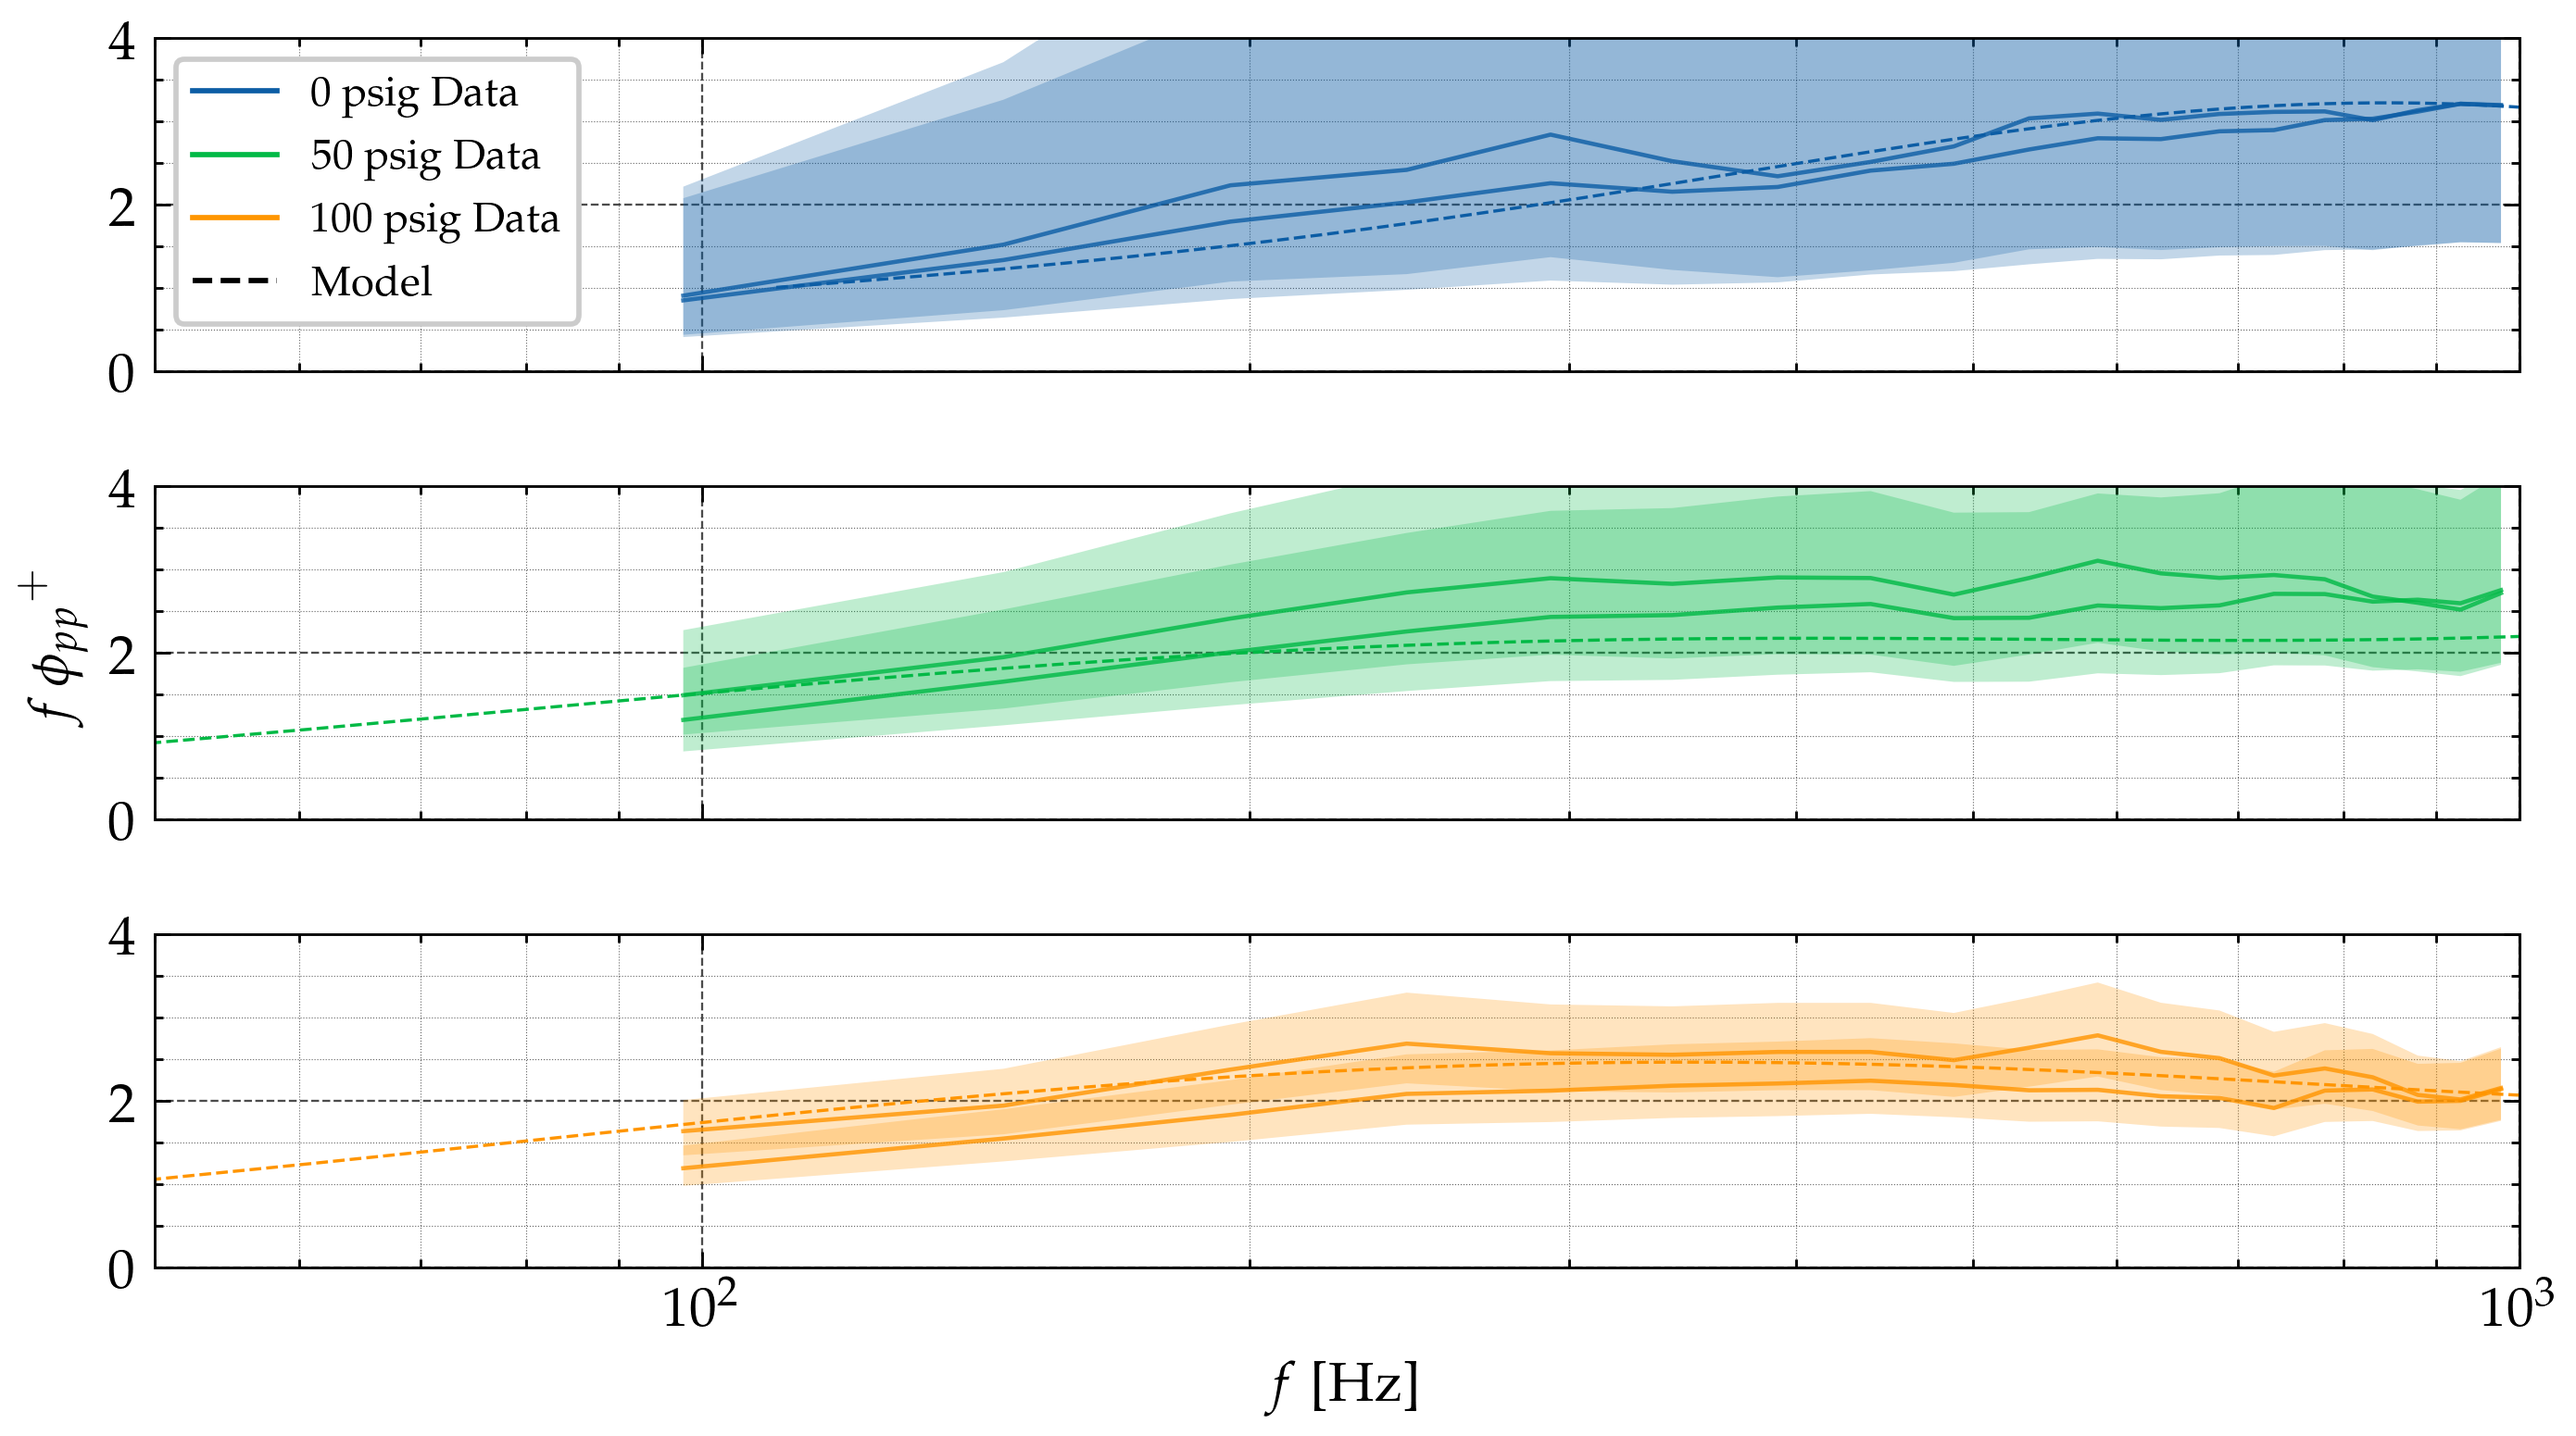
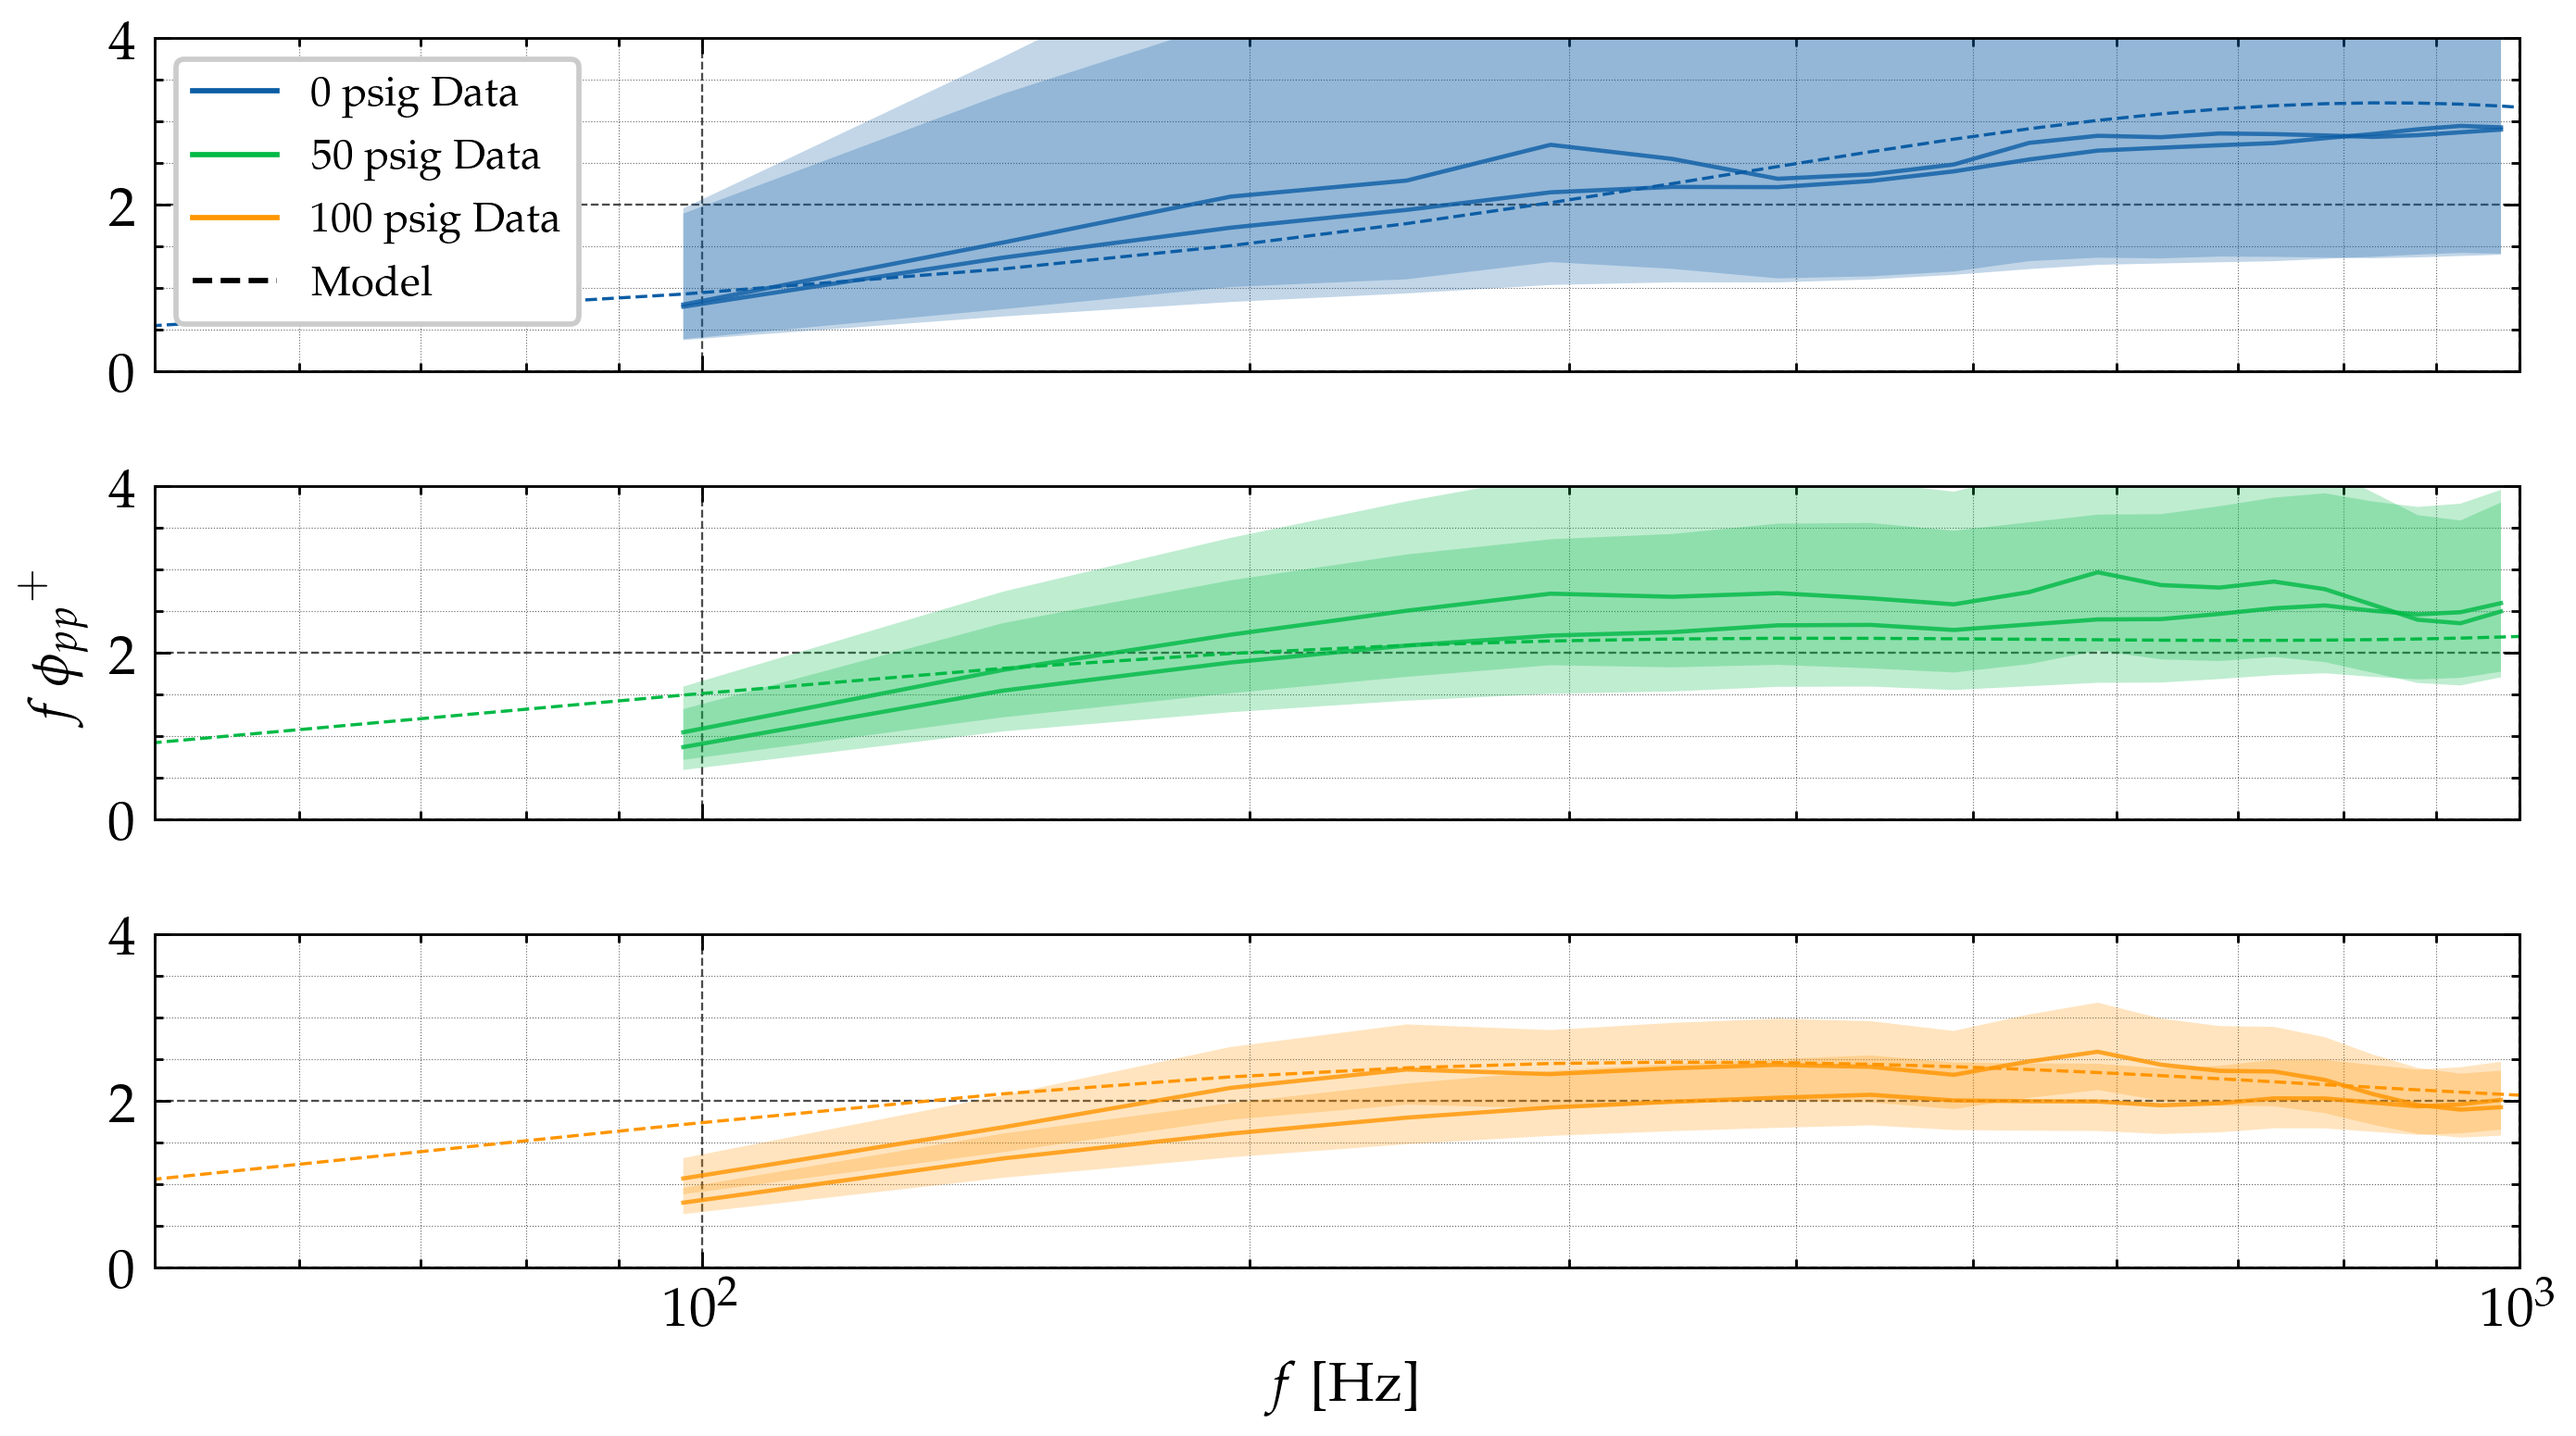
Okay, running and have near and far spacing

diff --git a/src/25-10-30__creative_lumped_element.py b/src/25-10-30__creative_lumped_element.py
@@ -61,6 +61,9 @@ SENSITIVITIES_V_PER_PA: dict[str, float] = {
 }
 PREAMP_GAIN: dict[str, float] = {"nc": 1.0, "PH1": 1.0, "PH2": 1.0, "NC": 1.0}
 TONAL_BASE = "data/2025-10-28/tonal/"
+CALIB_BASE = "data/final_calibration/"
+TARGET_BASE = "data/final_target/"
+CLEANED_BASE = "data/final_cleaned/"
 
 
 def estimate_frf(
@@ -102,13 +105,13 @@ def save_calibs(pressures):
     f_cut = [2_100, 4_700, 14_100]
     for i, pressure in enumerate(pressures):
         frequencies = np.arange(100, 3100, 100)
-        dat = loadmat(TONAL_BASE + f"calib_{pressure}.mat")
+        dat = loadmat(CALIB_BASE + f"calib_{pressure}_1.mat")
         ph1, ph2, nc, _ = dat["channelData_WN"].T
         nc_pa = volts_to_pa(nc, "NC", f_cut[i])
         ph1_pa = volts_to_pa(ph1, "PH1", f_cut[i])
         f1, H1, g2_1 = estimate_frf(ph1_pa, nc_pa, fs=FS)
         # add calibration for ph2
-        dat = loadmat(TONAL_BASE + f"calib_{pressure}.mat")
+        dat = loadmat(CALIB_BASE + f"calib_{pressure}_2.mat")
         ph1, ph2, nc, _ = dat["channelData_WN"].T
         nc_pa = volts_to_pa(nc, "NC", f_cut[i])
         ph2_pa = volts_to_pa(ph2, "PH2", f_cut[i])
@@ -123,7 +126,7 @@ def save_calibs(pressures):
             eps=1e-12
         )
         # save frf
-        with h5py.File(TONAL_BASE + f"calibs_{pressure}.h5", 'w') as hf:
+        with h5py.File(CALIB_BASE + f"calibs_{pressure}.h5", 'w') as hf:
             hf.create_dataset('frequencies', data=f1)
             hf.create_dataset('H1', data=H1)
             hf.create_dataset('H2', data=H2)
@@ -149,10 +152,11 @@ def compute_spec(fs: float, x: np.ndarray, npsg : int = NPERSEG):
     )
     return f, Pxx
 
+
 def save_scaling_target():
-    fn_atm = '0psig_cleaned.h5'
-    fn_50psig = '50psig_cleaned.h5'
-    fn_100psig = '100psig_cleaned.h5'
+    fn_atm = '0psig_close_cleaned.h5'
+    fn_50psig = '50psig_close_cleaned.h5'
+    fn_100psig = '100psig_close_cleaned.h5'
     labels = ['0psig', '50psig', '100psig']
     colours = ['C0', 'C1', 'C2']
 
@@ -162,7 +166,7 @@ def save_scaling_target():
 
     fig, ax = plt.subplots(1, 1, figsize=(7, 3), tight_layout=True)
     for idxfn, fn in enumerate([fn_atm, fn_50psig, fn_100psig]):
-        with h5py.File(f'data/{fn}', 'r') as hf:
+        with h5py.File(CLEANED_BASE+f'{fn}', 'r') as hf:
             ph1_clean = hf['ph1_clean'][:]
             ph2_clean = hf['ph2_clean'][:]
             u_tau = hf.attrs['u_tau']
@@ -201,7 +205,7 @@ def save_scaling_target():
         model_data_ratio2 = np.sqrt(data_fphipp_plus2_tf_m / bl_fphipp_plus)
 
         model_ratio_avg = (model_data_ratio1 + model_data_ratio2) / 2
-        with h5py.File(TONAL_BASE + f"lumped_scaling_{labels[idxfn]}.h5", 'w') as hf:
+        with h5py.File(TARGET_BASE + f"lumped_scaling_{labels[idxfn]}.h5", 'w') as hf:
             hf.create_dataset('frequencies', data=f_clean)
             hf.create_dataset('scaling_ratio', data=model_ratio_avg)
             hf.attrs['rho'] = rho
@@ -215,7 +219,7 @@ def plot_target_calib_modeled(
     *,
     fmin: float = 100.0,
     fmax: float = 1000.0,
-    f_ref: float = 1000.0,
+    f_ref: float = 700.0,
     rho_ref: float | None = None,
     invert_target: bool = True,   # saved "scaling_ratio" is model/data → required |H| = 1/scaling_ratio
     to_db: bool = False,          # set True to plot in dB
@@ -227,9 +231,8 @@ def plot_target_calib_modeled(
     # ----------------------------
     # (a) your baseline power-law (ρ, f) model
     (c0_db, a_rho, b_f), scale_powerlaw, diag_pw = fit_speaker_scaling_from_files(
-        labels=labels, fmin=fmin, fmax=fmax, f_ref=f_ref, rho_ref=rho_ref, invert_target=invert_target
+        # labels=labels, fmin=fmin, fmax=fmax, f_ref=f_ref, rho_ref=rho_ref, invert_target=invert_target
     )
-    ic(c0_db, a_rho, b_f)
     # ----------------------------
     # 2) helpers & styling
     # ----------------------------
@@ -252,17 +255,16 @@ def plot_target_calib_modeled(
         color = colours[i % len(colours)]
 
         # --- load target (required |H|)
-        with h5py.File(TONAL_BASE + f"lumped_scaling_{L}.h5", "r") as hf:
+        with h5py.File(TARGET_BASE + f"target_{L}_close.h5", "r") as hf:
             f_tgt = np.asarray(hf["frequencies"][:], float)
             s_ratio = np.asarray(hf["scaling_ratio"][:], float)  # (model/data) in POWER
             rho = float(hf.attrs["rho"]) if "rho" in hf.attrs else np.nan
-            nu = float(hf.attrs["nu"]) if "nu" in hf.attrs else np.nan  # preferred for Stokes
         tgt_mag = 1.0 / np.maximum(s_ratio, 1e-16) if invert_target else s_ratio  # required |H| (AMPLITUDE)
         mt = (f_tgt >= fmin) & (f_tgt <= fmax)
         f_tgt, tgt_mag = f_tgt[mt], tgt_mag[mt]
 
         # --- load measured calibration |H_cal|
-        with h5py.File(TONAL_BASE + f"calibs_{L}.h5", "r") as hf:
+        with h5py.File(CALIB_BASE + f"calibs_{L}.h5", "r") as hf:
             f_cal = np.asarray(hf["frequencies"][:], float)
             H_cal = np.asarray(hf["H_fused"][:], complex)
         cal_mag = np.abs(H_cal)
@@ -325,24 +327,19 @@ def plot_tf_model_comparison():
     (c0_db, a, b), scale, diag = fit_speaker_scaling_from_files(
         labels=tuple(labels),
         fmin=100.0, fmax=1000.0,   # fitting band
-        f_ref=1000.0,
+        f_ref=700.0,
         invert_target=True         # your "scaling_ratio" -> required |H| = 1/scaling_ratio
     )
 
-
     # files per label
     fn_map = {
-        '0psig': '0psig_cleaned.h5',
-        '50psig': '50psig_cleaned.h5',
-        '100psig': '100psig_cleaned.h5',
+        '0psig': '0psig_far_cleaned.h5',
+        '50psig': '50psig_far_cleaned.h5',
+        '100psig': '100psig_far_cleaned.h5',
     }
     colours = ['C0', 'C1', 'C2']
-
-    # (rho0 only used if you want to compare densities directly elsewhere)
-    pgs = [0, 50, 100]
     
     u_tau_uncertainty = [0.2, 0.1, 0.05]
-
     fig, ax = plt.subplots(3, 1, figsize=(7, 4), tight_layout=True, sharex=True, sharey=True)
 
     # --- main loop over datasets ---
@@ -351,17 +348,17 @@ def plot_tf_model_comparison():
         color = colours[i]
 
         # Load cleaned signals and attributes
-        with h5py.File(f'data/{fn}', 'r') as hf:
+        with h5py.File(CLEANED_BASE +f'{fn}', 'r') as hf:
             ph1_clean = hf['ph1_clean'][:]
             ph2_clean = hf['ph2_clean'][:]
             u_tau = float(hf.attrs['u_tau'])
             nu = float(hf.attrs['nu'])
             rho = float(hf.attrs['rho'])
-            # f_cut = hf.attrs.get('f_cut', np.nan)  # unused here
             Re_tau = hf.attrs.get('Re_tau', np.nan)
-            # cf_2   = hf.attrs.get('cf_2',   np.nan)
-        f_cal = np.load(TONAL_BASE + f"wn_frequencies_{L}.npy").astype(float)
-        H_cal = np.load(TONAL_BASE + f"wn_H1_{L}.npy")
+        
+        with h5py.File(CALIB_BASE + f"calibs_{L}.h5", "r") as hf:
+            f_cal = np.asarray(hf["frequencies"][:], float)
+            H_cal = np.asarray(hf["H_fused"][:], complex)
 
         # Plot bl model
         T_plus = (u_tau**2 / nu) / f_cal
@@ -379,10 +376,6 @@ def plot_tf_model_comparison():
         # --- PSDs ---
         f1, Pyy1 = compute_spec(FS, ph1_filt)
         f2, Pyy2 = compute_spec(FS, ph2_filt)
-        # unify grids (Welch outputs match with identical settings)
-        if not np.allclose(f1, f2):
-            # If extremely picky, interpolate one onto the other; here we pick f1
-            Pyy2 = np.interp(f1, f2, Pyy2)
         f_sp = f1
 
         # --- pre-multiplied, normalized spectra ---
@@ -399,9 +392,6 @@ def plot_tf_model_comparison():
         ax[i].semilogx(f_plot, y1_plot, linestyle='-', color=colours[i], alpha=0.8, lw=0.8)
         ax[i].semilogx(f_plot, y2_plot, linestyle='-', color=colours[i], alpha=0.8, lw=0.8)
 
-
-
-        # ±10% u_tau uncertainty bands (repeat for each channel)
         u_low, u_high = u_tau*(1 - u_tau_uncertainty[i]), u_tau*(1 + u_tau_uncertainty[i])
         y1_upper = ((f_sp * Pyy1) / (rho**2 * u_low**4))[band]
         y1_lower = ((f_sp * Pyy1) / (rho**2 * u_high**4))[band]
@@ -424,28 +414,22 @@ def plot_tf_model_comparison():
     custom_lines = [Line2D([0], [0], color=label_colours[i], linestyle=label_styles[i]) for i in range(len(labels_handles))]
     ax[0].legend(custom_lines, labels_handles, loc='upper left', fontsize=8)
 
-    # title_params = f"scaled FRF: c0={c0_db:.2f} dB, a={a:.3f}, b={b:.3f} | " \
-    #                f"ρ_ref={diag['rho_ref']:.3g} kg/m³, f_ref={diag['f_ref']:.0f} Hz"
-    # ax.set_title(title_params, fontsize=9)
-
-    fig.savefig('figures/tonal_ratios/spectra_comparison_tf_freq_scaled.png', dpi=410)
+    fig.savefig('figures/final/spectra_comparison_tf_freq_scaled.png', dpi=410)
 
 
 
 
 if __name__ == "__main__":
-    # scale_0psig(['0psig', '50psig', '100psig'])
-    plot_tf_model_comparison()
-    # plot_tf_model_comparison_stokes()
     plot_target_calib_modeled(
         labels=('0psig', '50psig', '100psig'),
         fmin=100.0,
         fmax=1000.0,
         to_db=True,
-        savepath='figures/tonal_ratios/target_calib_modeled_comparison_db.png',
+        savepath='figures/final/target_calib_modeled_comparison_db.png',
     )
+    # plot_tf_model_comparison()
     # psigs = [0, 50, 100]
     # labels = [f"{psig}psig" for psig in psigs]
     # save_calibs(labels)
-    # save_scaling_target()
+    save_scaling_target()
     # plot_TFs_and_ratios()

diff --git a/src/fit_speaker_scales.py b/src/fit_speaker_scales.py
@@ -10,7 +10,7 @@ import numpy as np
 def fit_speaker_scaling_from_files(
     labels: Tuple[str, ...] = ("0psig", "50psig", "100psig"),
     *,
-    f_ref: float = 1000.0,
+    f_ref: float = 700.0,
     rho_ref: Optional[float] = None,
     fmin: Optional[float] = 100.0,
     fmax: Optional[float] = 1000.0,
@@ -47,8 +47,11 @@ def fit_speaker_scaling_from_files(
              - 'counts_per_label'  {label: N points used}
     """
     TONAL_BASE = "data/2025-10-28/tonal/"
+    CALIB_BASE = "data/final_calibration/"
+    TARGET_BASE = "data/final_target/"
+    CLEANED_BASE = "data/final_cleaned/"
     def _load_target(L: str):
-        path = TONAL_BASE + f"lumped_scaling_{L}.h5"
+        path = TARGET_BASE + f"target_{L}_close.h5"
         with h5py.File(path, "r") as hf:
             f = np.asarray(hf["frequencies"][:], float)
             s = np.asarray(hf["scaling_ratio"][:], float)  # POWER ratio (data/model)
@@ -60,7 +63,7 @@ def fit_speaker_scaling_from_files(
         return f, s, rho
 
     def _load_cal(L: str):
-        with h5py.File(TONAL_BASE + f"calibs_{L}.h5", 'r') as hf:
+        with h5py.File(CALIB_BASE + f"calibs_{L}.h5", 'r') as hf:
             f1 = np.asarray(hf["frequencies"][:], float)
             H1 = np.asarray(hf["H_fused"][:], complex)
         return f1, np.abs(H1)
